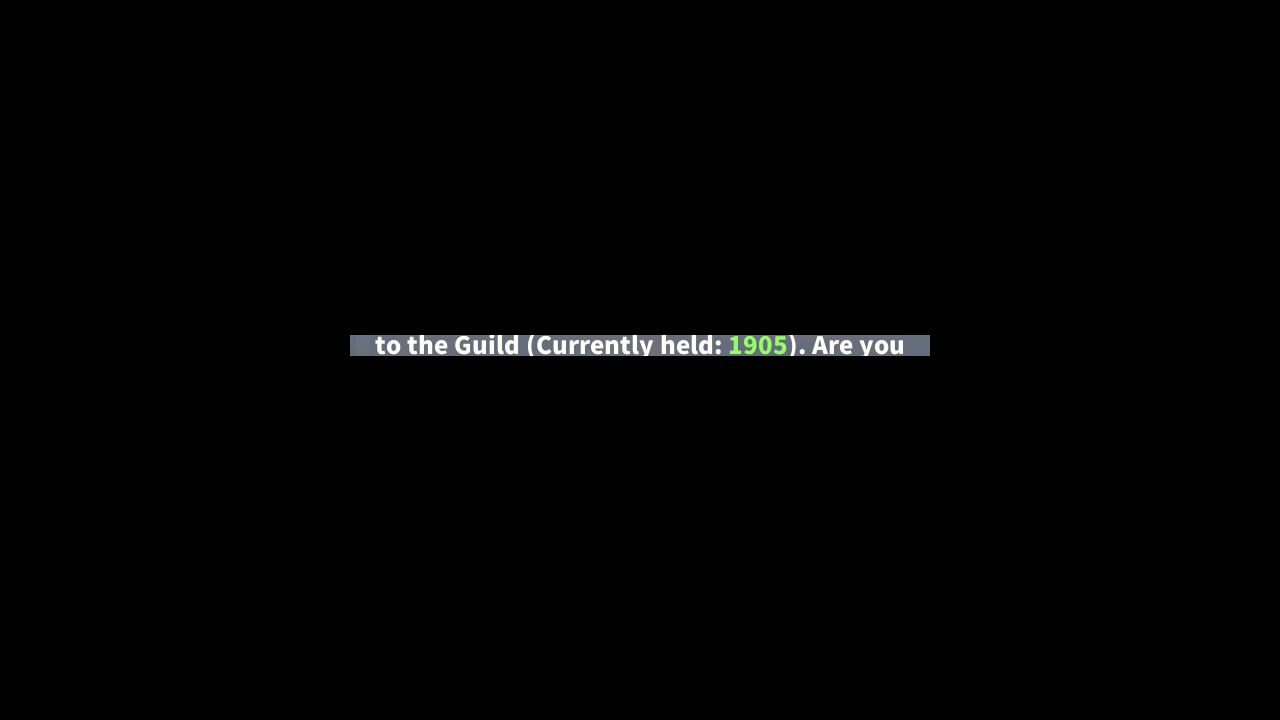
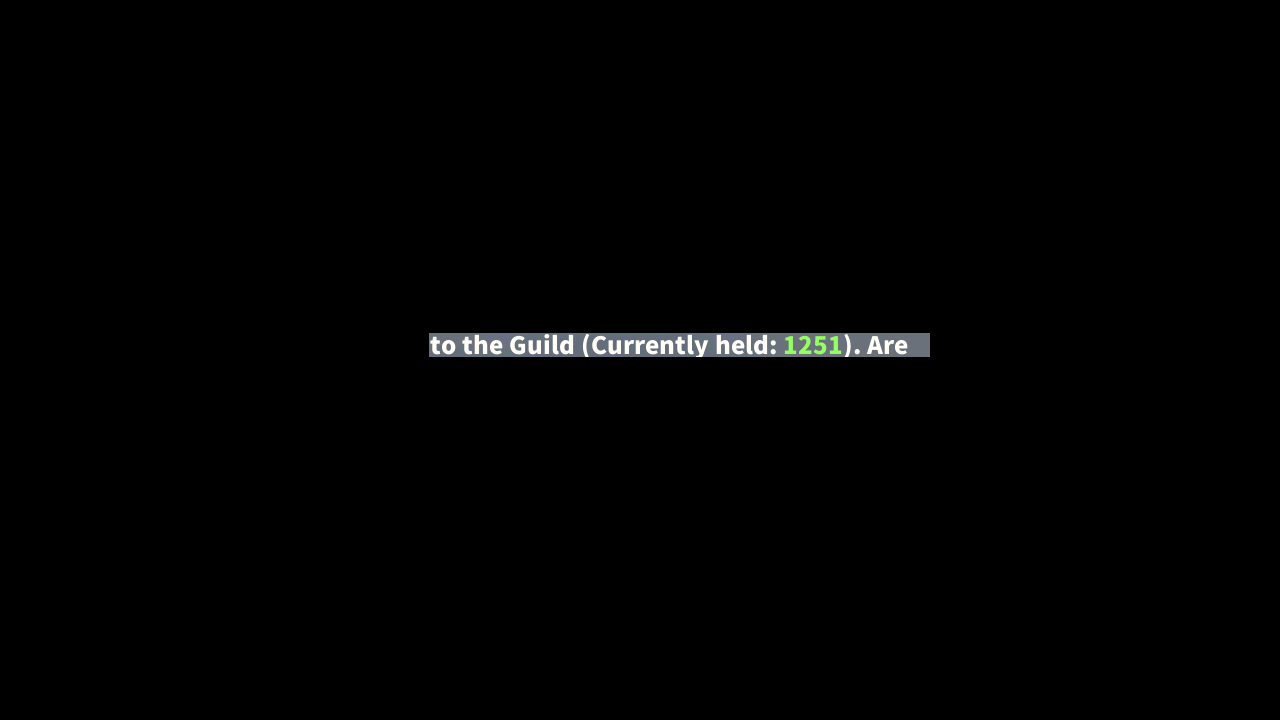
Fix: Updated asset to exclude potential overflow from first line
Lowered letter color after trial/error, 'oil' often read as 'oi'

Changed region(s): [[0.25, 0.4583, 0.7188, 0.5194]]

diff --git a/module/reward/assets.py b/module/reward/assets.py
@@ -49,7 +49,7 @@ MISSION_SINGLE = Button(area={'cn': (1093, 118, 1179, 177), 'en': (1093, 118, 11
 OCR_DATA_KEY = Button(area={'cn': (132, 42, 233, 70), 'en': (132, 42, 233, 70), 'jp': (132, 42, 233, 70), 'tw': (132, 42, 233, 70)}, color={'cn': (74, 75, 86), 'en': (74, 75, 86), 'jp': (74, 75, 86), 'tw': (74, 75, 86)}, button={'cn': (132, 42, 233, 70), 'en': (132, 42, 233, 70), 'jp': (132, 42, 233, 70), 'tw': (132, 42, 233, 70)}, file={'cn': './assets/cn/reward/OCR_DATA_KEY.png', 'en': './assets/en/reward/OCR_DATA_KEY.png', 'jp': './assets/cn/reward/OCR_DATA_KEY.png', 'tw': './assets/cn/reward/OCR_DATA_KEY.png'})
 OCR_DORM_FILL = Button(area={'cn': (653, 255, 793, 279), 'en': (641, 257, 781, 281), 'jp': (646, 259, 806, 277), 'tw': (653, 255, 793, 279)}, color={'cn': (156, 152, 149), 'en': (158, 154, 152), 'jp': (225, 189, 148), 'tw': (156, 152, 149)}, button={'cn': (653, 255, 793, 279), 'en': (641, 257, 781, 281), 'jp': (646, 259, 806, 277), 'tw': (653, 255, 793, 279)}, file={'cn': './assets/cn/reward/OCR_DORM_FILL.png', 'en': './assets/en/reward/OCR_DORM_FILL.png', 'jp': './assets/jp/reward/OCR_DORM_FILL.png', 'tw': './assets/tw/reward/OCR_DORM_FILL.png'})
 OCR_GUILD_EXCHANGE_INFO_1 = Button(area={'cn': (350, 304, 930, 334), 'en': (350, 304, 930, 334), 'jp': (350, 304, 930, 334), 'tw': (350, 304, 930, 334)}, color={'cn': (132, 146, 140), 'en': (132, 146, 140), 'jp': (132, 146, 140), 'tw': (132, 146, 140)}, button={'cn': (350, 304, 930, 334), 'en': (350, 304, 930, 334), 'jp': (350, 304, 930, 334), 'tw': (350, 304, 930, 334)}, file={'cn': './assets/cn/reward/OCR_GUILD_EXCHANGE_INFO_1.png', 'en': './assets/cn/reward/OCR_GUILD_EXCHANGE_INFO_1.png', 'jp': './assets/cn/reward/OCR_GUILD_EXCHANGE_INFO_1.png', 'tw': './assets/cn/reward/OCR_GUILD_EXCHANGE_INFO_1.png'})
-OCR_GUILD_EXCHANGE_INFO_2 = Button(area={'cn': (350, 335, 930, 356), 'en': (350, 335, 930, 356), 'jp': (350, 335, 930, 356), 'tw': (350, 335, 930, 356)}, color={'cn': (149, 158, 158), 'en': (149, 158, 158), 'jp': (149, 158, 158), 'tw': (149, 158, 158)}, button={'cn': (350, 335, 930, 356), 'en': (350, 335, 930, 356), 'jp': (350, 335, 930, 356), 'tw': (350, 335, 930, 356)}, file={'cn': './assets/cn/reward/OCR_GUILD_EXCHANGE_INFO_2.png', 'en': './assets/cn/reward/OCR_GUILD_EXCHANGE_INFO_2.png', 'jp': './assets/cn/reward/OCR_GUILD_EXCHANGE_INFO_2.png', 'tw': './assets/cn/reward/OCR_GUILD_EXCHANGE_INFO_2.png'})
+OCR_GUILD_EXCHANGE_INFO_2 = Button(area={'cn': (429, 333, 930, 357), 'en': (429, 333, 930, 357), 'jp': (429, 333, 930, 357), 'tw': (429, 333, 930, 357)}, color={'cn': (146, 156, 156), 'en': (146, 156, 156), 'jp': (146, 156, 156), 'tw': (146, 156, 156)}, button={'cn': (429, 333, 930, 357), 'en': (429, 333, 930, 357), 'jp': (429, 333, 930, 357), 'tw': (429, 333, 930, 357)}, file={'cn': './assets/cn/reward/OCR_GUILD_EXCHANGE_INFO_2.png', 'en': './assets/cn/reward/OCR_GUILD_EXCHANGE_INFO_2.png', 'jp': './assets/cn/reward/OCR_GUILD_EXCHANGE_INFO_2.png', 'tw': './assets/cn/reward/OCR_GUILD_EXCHANGE_INFO_2.png'})
 OCR_GUILD_EXCHANGE_LIMIT_AXIS = Button(area={'cn': (999, 383, 1018, 402), 'en': (999, 383, 1018, 402), 'jp': (999, 383, 1018, 402), 'tw': (999, 383, 1018, 402)}, color={'cn': (65, 53, 63), 'en': (65, 53, 63), 'jp': (65, 53, 63), 'tw': (65, 53, 63)}, button={'cn': (999, 383, 1018, 402), 'en': (999, 383, 1018, 402), 'jp': (999, 383, 1018, 402), 'tw': (999, 383, 1018, 402)}, file={'cn': './assets/cn/reward/OCR_GUILD_EXCHANGE_LIMIT_AXIS.png', 'en': './assets/cn/reward/OCR_GUILD_EXCHANGE_LIMIT_AXIS.png', 'jp': './assets/cn/reward/OCR_GUILD_EXCHANGE_LIMIT_AXIS.png', 'tw': './assets/cn/reward/OCR_GUILD_EXCHANGE_LIMIT_AXIS.png'})
 OCR_GUILD_EXCHANGE_LIMIT_AZUR = Button(area={'cn': (999, 383, 1018, 402), 'en': (999, 383, 1018, 402), 'jp': (999, 383, 1018, 402), 'tw': (999, 383, 1018, 402)}, color={'cn': (91, 93, 103), 'en': (91, 93, 103), 'jp': (91, 93, 103), 'tw': (91, 93, 103)}, button={'cn': (999, 383, 1018, 402), 'en': (999, 383, 1018, 402), 'jp': (999, 383, 1018, 402), 'tw': (999, 383, 1018, 402)}, file={'cn': './assets/cn/reward/OCR_GUILD_EXCHANGE_LIMIT_AZUR.png', 'en': './assets/cn/reward/OCR_GUILD_EXCHANGE_LIMIT_AZUR.png', 'jp': './assets/cn/reward/OCR_GUILD_EXCHANGE_LIMIT_AZUR.png', 'tw': './assets/cn/reward/OCR_GUILD_EXCHANGE_LIMIT_AZUR.png'})
 OCR_MEOWFFICER = Button(area={'cn': (1032, 670, 1076, 694), 'en': (1032, 670, 1076, 694), 'jp': (1032, 670, 1076, 694), 'tw': (1032, 670, 1076, 694)}, color={'cn': (220, 206, 196), 'en': (220, 206, 196), 'jp': (220, 206, 196), 'tw': (220, 206, 196)}, button={'cn': (1032, 670, 1076, 694), 'en': (1032, 670, 1076, 694), 'jp': (1032, 670, 1076, 694), 'tw': (1032, 670, 1076, 694)}, file={'cn': './assets/cn/reward/OCR_MEOWFFICER.png', 'en': './assets/en/reward/OCR_MEOWFFICER.png', 'jp': './assets/jp/reward/OCR_MEOWFFICER.png', 'tw': './assets/tw/reward/OCR_MEOWFFICER.png'})

diff --git a/module/reward/guild.py b/module/reward/guild.py
@@ -13,10 +13,9 @@ from module.ui.ui import UI
 
 GUILD_EXCHANGE_LIMIT_AZUR = Digit(OCR_GUILD_EXCHANGE_LIMIT_AZUR, letter=(173, 182, 206), threshold=64)
 GUILD_EXCHANGE_LIMIT_AXIS = Digit(OCR_GUILD_EXCHANGE_LIMIT_AXIS, letter=(214, 113, 115), threshold=64)
-#GUILD_EXCHANGE_INFO_1 = Ocr(OCR_GUILD_EXCHANGE_INFO_1, lang='cnocr', letter=(148, 255, 99))
-GUILD_EXCHANGE_INFO_1 = Ocr(OCR_GUILD_EXCHANGE_INFO_1, lang='cnocr', letter=(148, 255, 99), threshold=64,
-                                  alphabet='123ABCDEFGHIJKLMNOPQRSTUVWXYZabcdefghijklmnopqrstuvwxyz- ')
-GUILD_EXCHANGE_INFO_2 = Digit(OCR_GUILD_EXCHANGE_INFO_2, lang='cnocr', letter=(148, 255, 99), threshold=64)
+GUILD_EXCHANGE_INFO_1 = Ocr(OCR_GUILD_EXCHANGE_INFO_1, lang='cnocr', letter=(148, 249, 99), threshold=64,
+                            alphabet='0123ABCDEFGHIJKLMNOPQRSTUVWXYZabcdefghijklmnopqrstuvwxyz- ')
+GUILD_EXCHANGE_INFO_2 = Digit(OCR_GUILD_EXCHANGE_INFO_2_2, lang='cnocr', letter=(148, 249, 99), threshold=64)
 
 GUILD_SIDEBAR = ButtonGrid(
     origin=(21, 118), delta=(0, 94.5), button_shape=(60, 75), grid_shape=(1, 5), name='GUILD_SIDEBAR')
